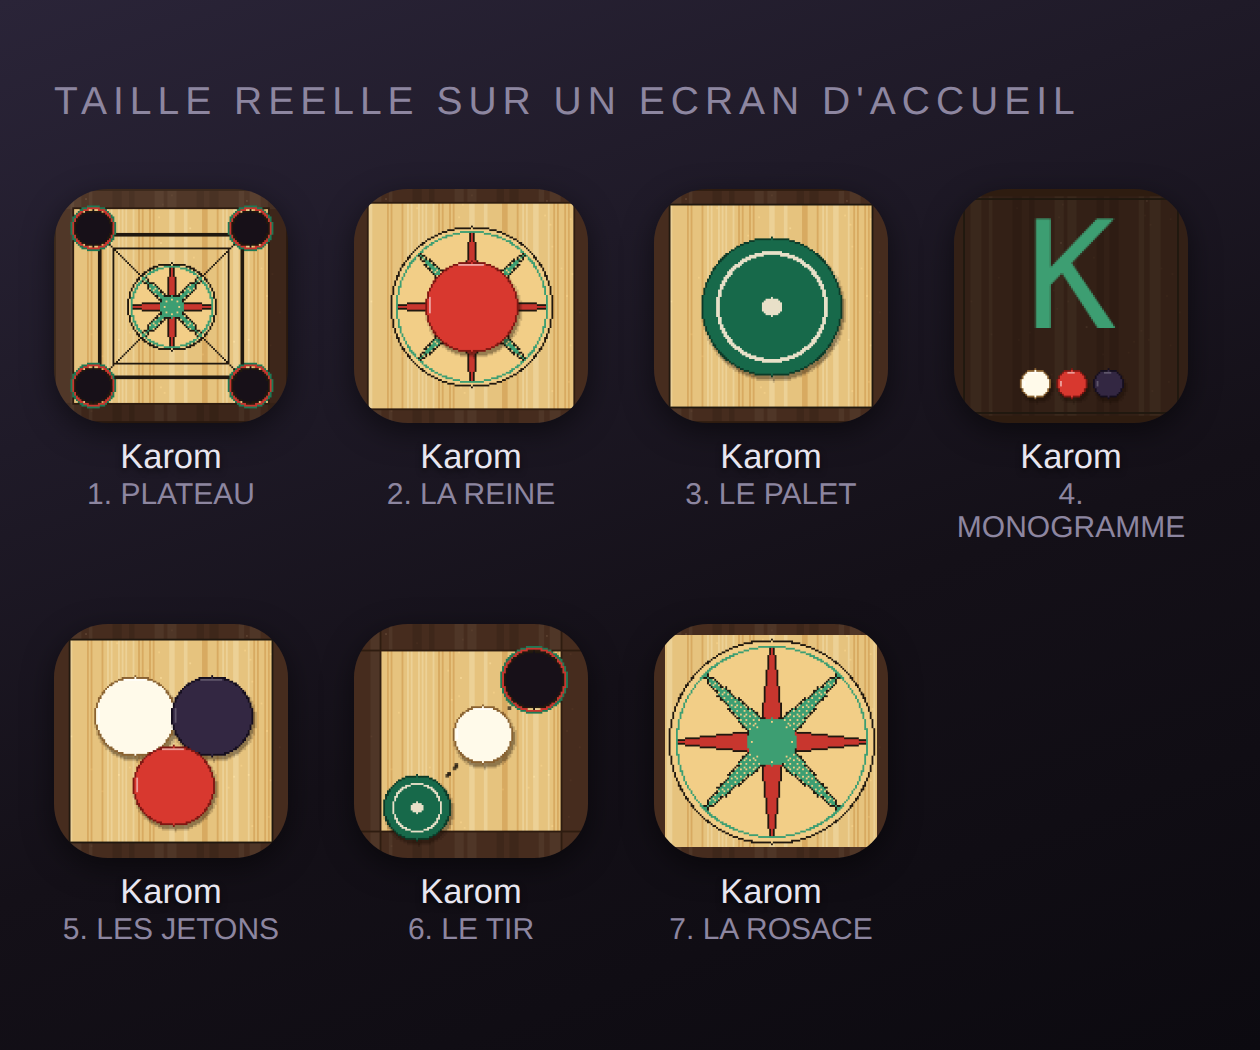
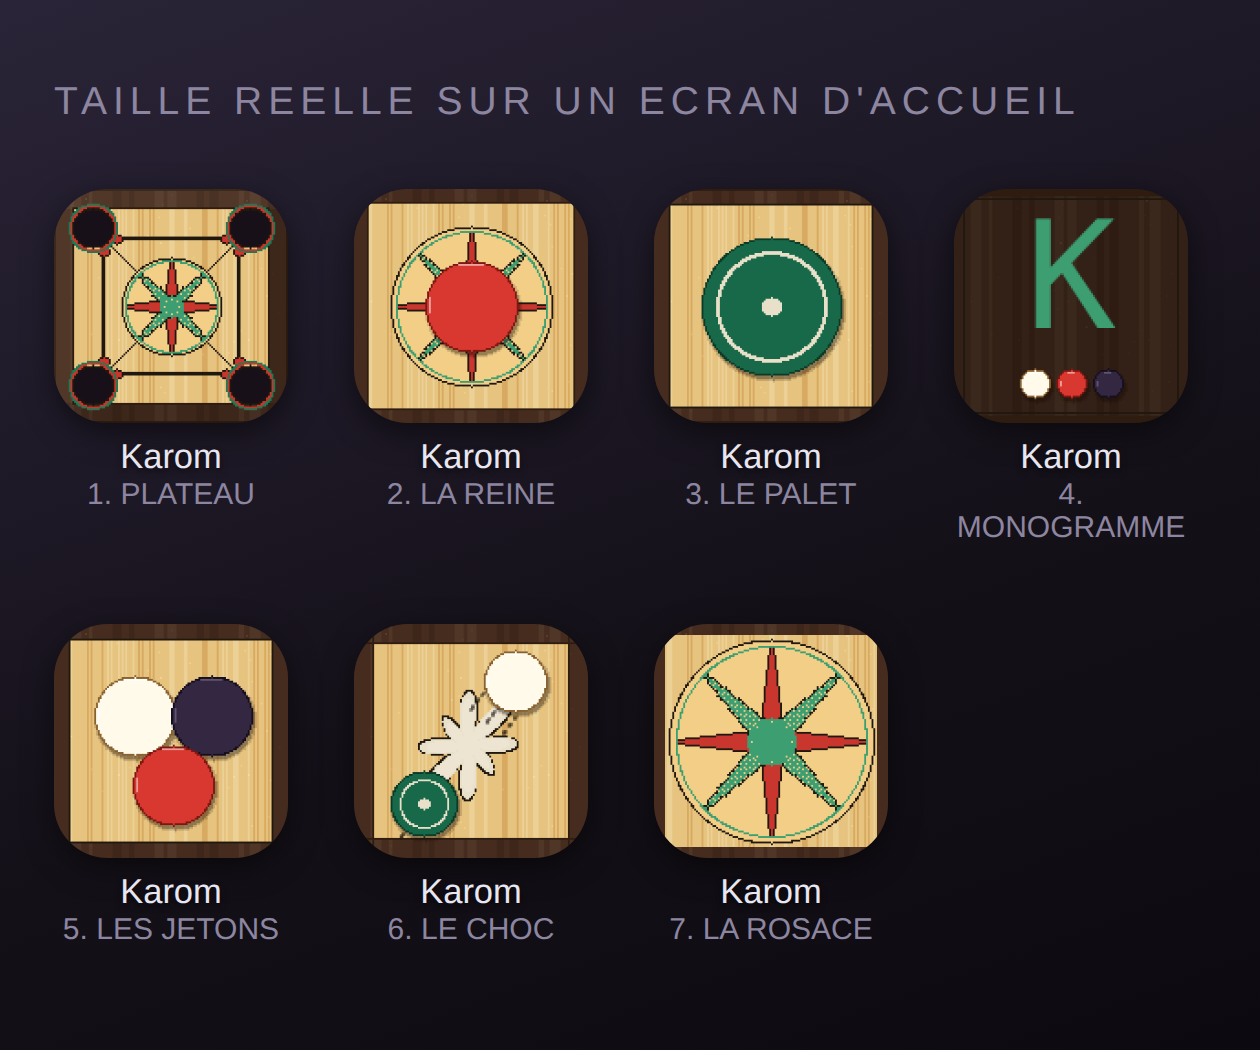
Icônes : plateau allégé, et le tir devient le choc
- Plateau : un seul carré épais au lieu de deux traits dont le second se
  perdait à la réduction, diagonales raccourcies, pastilles rouges des
  angles ajoutées, rosace et trous agrandis.
- Le tir devient « le choc » : plus de poche, l'instant du contact avec une
  étoile d'impact pleine, étirée dans l'axe du coup. Pleine et non
  rayonnante, sinon elle disparaissait dès qu'on réduisait. Le palet garde
  sa traînée d'élan, le jeton chassé ses lignes de vitesse.

Claude-Session: https://claude.ai/code/session_01P1kGgqf4yKwvjTgi27QtYv

Changed region(s): [[0.2786, 0.6095, 0.4643, 0.8229], [0.031, 0.1829, 0.2167, 0.3962], [0.3095, 0.8533, 0.4333, 0.9143]]

diff --git a/visuels/icones.html b/visuels/icones.html
@@ -129,19 +129,24 @@ PISTES.push({nom:'PLATEAU', f(g){
   g.fillStyle='rgba(0,0,0,.12)'; g.fillRect(0,N-F,N,F); g.fillRect(N-F,0,F,N);
   g.fillStyle=P.woodLo; g.fillRect(F-1,F-1,N-2*(F-1),N-2*(F-1));
   tapis(g,F,F,N-F,N-F);
-  /* double carre : trait epais dehors, fin dedans, pour tenir en petit */
+  /* un seul carre, epais : le second trait se perdait a la reduction */
   g.fillStyle=P.ink;
-  g.fillRect(24,24,N-48,2); g.fillRect(24,N-26,N-48,2);
-  g.fillRect(24,24,2,N-48); g.fillRect(N-26,24,2,N-48);
-  g.fillRect(32,32,N-64,1); g.fillRect(32,N-33,N-64,1);
-  g.fillRect(32,32,1,N-64); g.fillRect(N-33,32,1,N-64);
-  /* diagonales vers les trous */
+  g.fillRect(26,26,N-52,2); g.fillRect(26,N-28,N-52,2);
+  g.fillRect(26,26,2,N-52); g.fillRect(N-28,26,2,N-52);
+  /* diagonales, du carre vers chaque trou */
   for(const q of [[1,1],[-1,1],[1,-1],[-1,-1]]){
     const cx=q[0]>0?0:N, cy=q[1]>0?0:N;
-    pline(g,cx+q[0]*24,cy+q[1]*24,cx+q[0]*54,cy+q[1]*54,P.ink);
+    pline(g,cx+q[0]*26,cy+q[1]*26,cx+q[0]*50,cy+q[1]*50,P.ink);
   }
-  rosace(g,N/2,N/2,24,P.felt);
-  for(const p of [[21,21],[N-21,21],[21,N-21],[N-21,N-21]]) trou(g,p[0],p[1],9);
+  /* les deux pastilles rouges de chaque angle, comme sur le vrai plateau */
+  for(const q of [[1,1],[-1,1],[1,-1],[-1,-1]]){
+    const cx=q[0]>0?27:N-27, cy=q[1]>0?27:N-27;
+    for(const d of [[cx+q[0]*7,cy],[cx,cy+q[1]*7]]){
+      pcircle(g,d[0],d[1],3,P.ink); pcircle(g,d[0],d[1],2,P.red);
+    }
+  }
+  rosace(g,N/2,N/2,27,P.felt);
+  for(const p of [[21,21],[N-21,21],[21,N-21],[N-21,N-21]]) trou(g,p[0],p[1],10);
 }});
 
 /* 2 - la reine posee sur la rosace */
@@ -191,25 +196,54 @@ PISTES.push({nom:'LES JETONS', f(g){
   jeton(g,65,88,22,P.qPiece,P.qEdge,'rgba(255,255,255,.5)');
 }});
 
-/* 6 - le tir : un jeton file vers la poche */
-PISTES.push({nom:'LE TIR', f(g){
+/* 6 - le tir : l'instant du choc, sans poche */
+PISTES.push({nom:'LE CHOC', f(g){
   tapis(g,0,0,N,N);
-  bois(g,0,0,N,14); bois(g,0,0,14,N); bois(g,N-14,0,14+N,N); bois(g,0,N-14,N,N);
-  g.fillStyle=P.woodLo; g.fillRect(0,14,N,1); g.fillRect(14,0,1,N);
-  g.fillStyle=P.woodLo; g.fillRect(0,N-15,N,1); g.fillRect(N-15,0,1,N);
-  /* le palet frappe le jeton, qui file vers la poche : trajectoire pointillee */
-  const pointille=(x0,y0,x1,y1,d0,d1)=>{
-    const dx=x1-x0, dy=y1-y0, L=Math.hypot(dx,dy);
-    for(let t=d0;t<L-d1;t+=1){ if(t%6>2) continue;
-      g.fillStyle='rgba(32,24,15,.70)';
-      g.fillRect(Math.round(x0+dx/L*t),Math.round(y0+dy/L*t),2,2); }
+  bois(g,0,0,N,10); bois(g,0,0,10,N); bois(g,N-10,0,10+N,N); bois(g,0,N-10,N,N);
+  g.fillStyle=P.woodLo; g.fillRect(0,10,N,1); g.fillRect(10,0,1,N);
+  g.fillStyle=P.woodLo; g.fillRect(0,N-11,N,1); g.fillRect(N-11,0,1,N);
+
+  /* l'axe du coup : du palet, en bas a gauche, vers le jeton chasse */
+  const ax=0.60, ay=-0.80;                 /* direction du tir, normalisee */
+  const cx=62, cy=66;                      /* point de contact */
+
+  /* elan du palet : trainee pointillee derriere lui */
+  for(let t=42;t<64;t++){ if(t%6>2) continue;
+    g.fillStyle='rgba(32,24,15,.55)';
+    g.fillRect(Math.round(cx-ax*t),Math.round(cy-ay*t),2,2); }
+
+  /* le choc : une etoile pleine, etiree dans l'axe du coup.
+     Pleine et non rayonnante, sinon elle disparait a la reduction. */
+  const rayon=(a)=>{
+    const ux=Math.cos(a), uy=Math.sin(a);
+    const aligne=Math.abs(ux*ax+uy*ay);            /* 1 dans l'axe, 0 en travers */
+    const dehors=17+15*aligne, dedans=9;
+    return dedans+(dehors-dedans)*Math.pow(Math.abs(Math.cos(4*a)),1.3);
   };
-  pointille(34,100,70,60,22,20);
-  pointille(70,60,98,30,20,20);
-  trou(g,98,30,15);
-  jeton(g,70,60,16,P.wPiece,P.wEdge,'rgba(255,255,255,.75)');
-  jeton(g,34,100,18,P.sBody,P.sEdge,null);
-  pring(g,34,100,13,P.sRed); pcircle(g,34,100,3,P.sRed);
+  for(let a=0;a<Math.PI*2;a+=0.004){               /* balayage : remplit l'etoile */
+    const ux=Math.cos(a), uy=Math.sin(a), r=rayon(a);
+    g.fillStyle=P.ink;
+    g.fillRect(Math.round(cx+ux*(r+1)),Math.round(cy+uy*(r+1)),1,1);
+    for(let t=0;t<r;t+=0.5){
+      g.fillStyle = t<r-3 ? P.pale : P.sRed;
+      g.fillRect(Math.round(cx+ux*t),Math.round(cy+uy*t),1,1);
+    }
+  }
+
+  /* le jeton chasse, deja parti dans l'axe, avec ses lignes de vitesse */
+  const jx=Math.round(cx+ax*44), jy=Math.round(cy+ay*44);
+  for(const o of [-11,0,11]){
+    const nx=-ay, ny=ax;
+    for(let t=16;t<30;t++){ if(t%5>2) continue;
+      g.fillStyle='rgba(32,24,15,.45)';
+      g.fillRect(Math.round(jx-ax*t+nx*o),Math.round(jy-ay*t+ny*o),2,2); }
+  }
+  jeton(g,jx,jy,17,P.wPiece,P.wEdge,'rgba(255,255,255,.75)');
+
+  /* le palet, en retrait sur l'axe */
+  const px=Math.round(cx-ax*40), py=Math.round(cy-ay*40);
+  jeton(g,px,py,18,P.sBody,P.sEdge,null);
+  pring(g,px,py,13,P.sRed); pcircle(g,px,py,3,P.sRed);
 }});
 
 /* 7 - la rosace seule, plein cadre */

diff --git a/visuels/apercu.html b/visuels/apercu.html
@@ -1,0 +1,26 @@
+<!DOCTYPE html>
+<html lang="fr"><head><meta charset="utf-8"><title>Karom - sur l'ecran d'accueil</title>
+<style>
+ body{margin:0;background:linear-gradient(160deg,#2A2438,#141018 60%,#0C0A10);
+      font-family:-apple-system,'Segoe UI',Roboto,sans-serif;color:#fff;padding:26px 18px 34px}
+ h1{font-size:13px;font-weight:500;letter-spacing:2px;color:#8d86a0;margin:0 0 22px;text-transform:uppercase}
+ .rangee{display:flex;flex-wrap:wrap;gap:26px 22px}
+ .app{width:78px;text-align:center}
+ .app img{width:78px;height:78px;border-radius:18px;display:block;
+          box-shadow:0 3px 10px rgba(0,0,0,.5)}
+ .app span{display:block;font-size:11.5px;margin-top:6px;color:#e8e6f0;
+           text-shadow:0 1px 2px rgba(0,0,0,.6)}
+ .num{font-size:10px;color:#8d86a0;margin-top:1px}
+</style></head><body>
+<h1>Taille reelle sur un ecran d'accueil</h1>
+<div class="rangee" id="r"></div>
+<script>
+const fic=['plateau','reine','palet','monogramme','jetons','choc','rosace'];
+const noms=['PLATEAU','LA REINE','LE PALET','MONOGRAMME','LES JETONS','LE CHOC','LA ROSACE'];
+const r=document.getElementById('r');
+noms.forEach((n,i)=>{
+  const d=document.createElement('div'); d.className='app';
+  d.innerHTML='<img src="icone-'+(i+1)+'-'+fic[i]+'.png" alt=""><span>Karom</span><div class="num">'+(i+1)+'. '+n+'</div>';
+  r.appendChild(d);
+});
+</script></body></html>

diff --git a/visuels/README.md b/visuels/README.md
@@ -8,12 +8,12 @@ plateau. Chaque fichier est un master de 1024×1024, tracé sur une grille de
 
 | # | Fichier | Ce que ça raconte |
 |---|---------|-------------------|
-| 1 | `icone-1-plateau.png` | Le plateau vu de dessus : cadre, tapis, quatre trous, rosace. Le plus explicite, le plus chargé. |
+| 1 | `icone-1-plateau.png` | Le plateau vu de dessus : cadre, tapis, quatre trous, rosace, pastilles rouges. Le plus explicite. |
 | 2 | `icone-2-reine.png` | La reine rouge posée sur la rosace. Lecture immédiate en petit. |
 | 3 | `icone-3-palet.png` | Le palet vert, l'objet que l'on lance. Le plus simple. |
 | 4 | `icone-4-monogramme.png` | Un K en Jersey sur bois, avec les trois jetons. |
 | 5 | `icone-5-jetons.png` | Les trois jetons du jeu : clair, foncé, reine. |
-| 6 | `icone-6-tir.png` | Le palet frappe un jeton qui file vers la poche. |
+| 6 | `icone-6-choc.png` | L'instant du choc : le palet frappe, l'étoile d'impact éclate, le jeton part. Sans poche. |
 | 7 | `icone-7-rosace.png` | La rosace seule, plein cadre. Emblème abstrait. |
 
 - `planche.png` — les sept côte à côte, en grand
